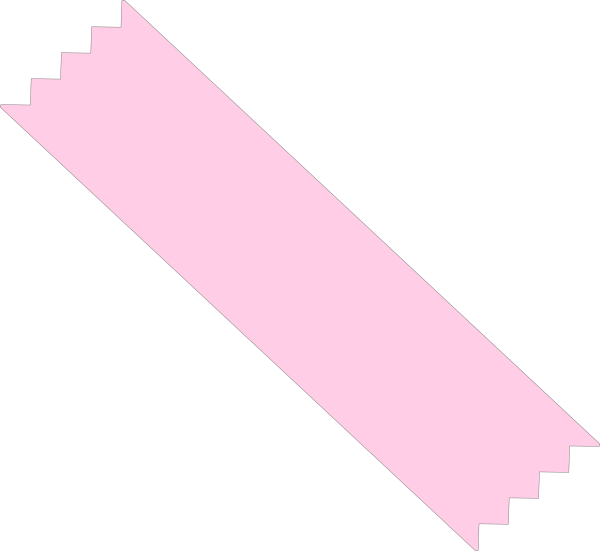
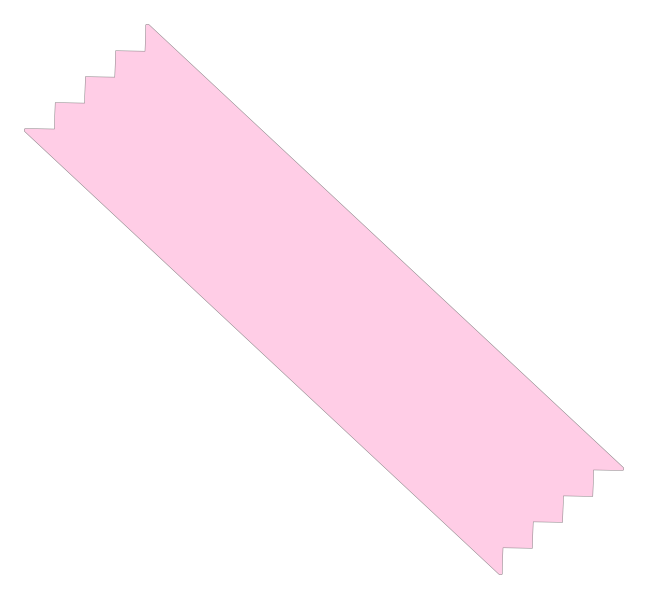
init

diff --git a/components/Navbar.tsx b/components/Navbar.tsx
@@ -76,19 +76,10 @@ function NavTabShape({ fillColor, isActive }: NavTabShapeProps) {
       aria-hidden="true"
       className="absolute inset-0 w-full h-full pointer-events-none transition-all duration-200"
     >
-      {/* 1. Filled flap body */}
       <path
         d="M 22 0 L 78 0 C 82 0 85 1.5 87 5 L 98 37 C 99 39 99.5 40 100 40 L 0 40 C 0.5 40 1 39 2 37 L 13 5 C 15 1.5 18 0 22 0 Z"
         fill={fillColor}
         className={isActive ? "brightness-105" : "brightness-100"}
-      />
-      {/* 2. Border on upper 3 sides only (left slant, top edge, right slant) */}
-      <path
-        d="M 0 40 C 0.5 40 1 39 2 37 L 13 5 C 15 1.5 18 0 22 0 L 78 0 C 82 0 85 1.5 87 5 L 98 37 C 99 39 99.5 40 100 40"
-        fill="none"
-        stroke={isActive ? "rgba(0, 0, 0, 0.24)" : "rgba(0, 0, 0, 0.16)"}
-        strokeWidth="2"
-        vectorEffect="non-scaling-stroke"
       />
     </svg>
   );
@@ -113,7 +104,7 @@ export default function Navbar() {
       className={`sticky top-0 z-50 w-full transition-all duration-200 ${
         hasScrolled
           ? "bg-canvas/92 backdrop-blur-md border-b border-hairline shadow-[0_2px_12px_rgba(0,0,0,0.03)]"
-          : "bg-canvas border-b border-hairline"
+          : "bg-canvas "
       }`}
     >
       <div className="max-w-7xl mx-auto px-6 md:px-8 flex items-end justify-between md:justify-center relative h-16">
@@ -184,7 +175,7 @@ export default function Navbar() {
 
                 return (
                   <motion.div
-                    key={item.id}
+                    key={item.id} 
                     initial={{ opacity: 0, x: -10 }}
                     animate={{ opacity: 1, x: 0 }}
                     transition={{ delay: index * 0.04 }}

diff --git a/components/Hero.tsx b/components/Hero.tsx
@@ -84,6 +84,7 @@ export default function Hero() {
                   src="/cello_tape.png"
                   alt=""
                   fill
+                  sizes="(min-width: 640px) 144px, 112px"
                   className="object-contain"
                   priority
                 />
@@ -95,6 +96,7 @@ export default function Hero() {
                   src="/cello_tape.png"
                   alt=""
                   fill
+                  sizes="(min-width: 640px) 144px, 112px"
                   className="object-contain"
                   priority
                 />
